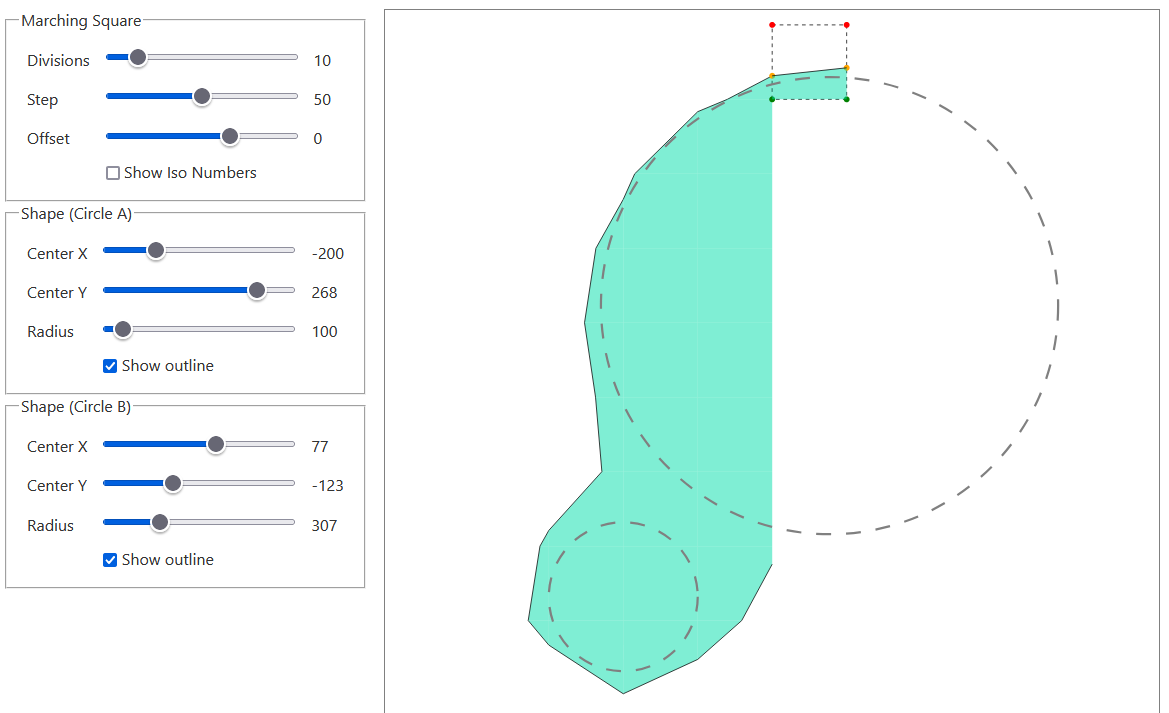
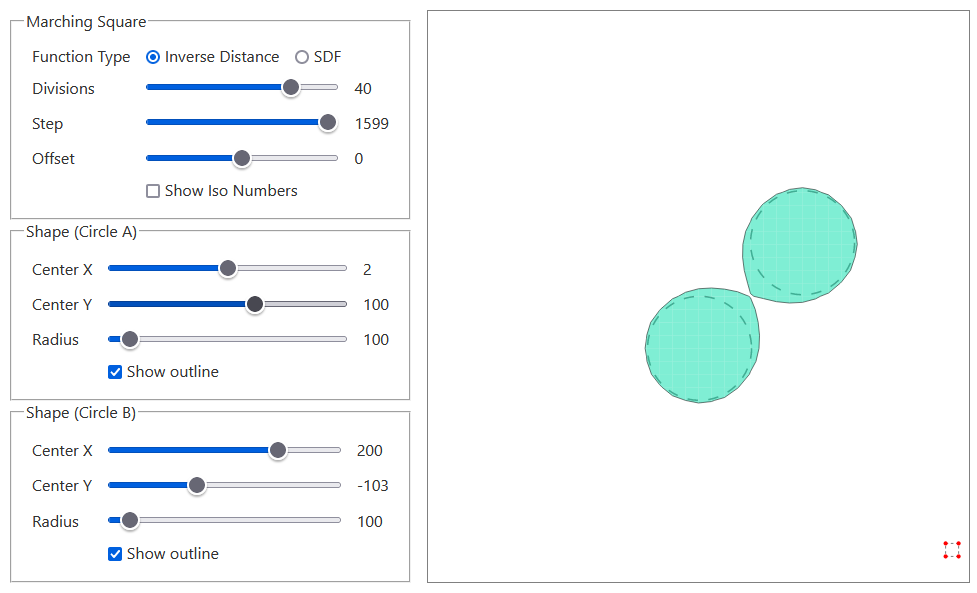
add sdf variant

diff --git a/src/App.svelte b/src/App.svelte
@@ -14,6 +14,8 @@
 	let showOutlineA = true
 	let showOutlineB = true
 
+	let sdf = false
+
 	function setDivisions(val) {
 		const shrink = val < divisions
 		const oldRow = (step % divisions) / divisions
@@ -162,14 +164,55 @@
 			lerped: {north, south, east, west},
 		}
 	}
+
+	function sampleSquareSDF(func, {x,y,width, height}) {
+		const v1 = func(x,y)
+		const v2 = func(x+width,y)
+		const v3 = func(x+width,y+height)
+		const v4 = func(x,y+height)
+		
+		const hit1 = v1 <= 0
+		const hit2 = v2 <= 0
+		const hit3 = v3 <= 0
+		const hit4 = v4 <= 0
+
+		
+		const isoValue = (hit1?1:0) * 8 + (hit2?1:0) * 4 + (hit3?1:0) * 2 + (hit4?1:0) * 1
+		
+
+		const hitCenter = (isoValue === 5 || isoValue === 10) && func(x+width/2,y+height/2) <= 0
+
+		const northLerp = (v1)/(v1-v2) || 0
+		const southLerp = (v4)/(v4-v3) || 0
+		const eastLerp = (v2)/(v2-v3) || 0
+		const westLerp = (v1)/(v1-v4) || 0
+		
+		const north = {y: y, x: lerp(northLerp, x, x+width)}
+		const south = {y: y+height, x: lerp(southLerp, x, x+width)}
+		const east = {y: lerp(eastLerp, y, y+height), x: x+width}
+		const west = {y: lerp(westLerp, y, y+height), x: x}
+		
+		
+		return {
+			shapes: isoShapes(isoValue, hitCenter, north, east, south, west),
+			outlines: isoOutlines(isoValue, hitCenter, north, east, south, west),
+			hits: [hit1, hit2, hit3, hit4],
+			isoValue: isoValue,
+			lerped: {north, south, east, west},
+		}
+	}
 	
 	const translate = (dx,dy, shape) => {
 		return (x,y) => shape(x-dx, y-dy)
 	}
 	
-	const circle = (r) => {
+	const circleClassic = (r) => {
 		const r2 = r*r
 		return (x,y) => r2/((x)*(x)+(y)*(y))
+	}
+	
+	const circleSDF = (r) => {
+		return (x,y) => Math.sqrt((x)*(x)+(y)*(y)) - r
 	}
 	
 	const add = (s1, s2) => {
@@ -190,8 +233,12 @@
 	const addOffset = (o, shape) => {
 		return (x,y) => shape(x,y) + o
 	}
+
+	$: combineShapes = sdf ? min : add
+
+	$: circle = sdf ? circleSDF : circleClassic
 	
-	$: func = addOffset(offset, add(
+	$: func = addOffset((sdf?offset:-offset/100), combineShapes(
 		translate(dx, dy, circle(radius)),
 		translate(dxB, dyB, circle(radiusB))
 	))
@@ -207,7 +254,7 @@
 		active:  i==step,
 	})).map((square) => ({
 		...square,
-		result: sampleSquare(func, square),
+		result: sdf ? sampleSquareSDF(func, square) : sampleSquare(func, square),
 	}))
 	
 	function jumpToStep(evt) {
@@ -220,23 +267,28 @@
 
 <style>
 
+	fieldset {
+		margin:  0;
+	}
+
 	svg {
-		max-width: 80vmin;
-		max-height: 80vmin;
 		display: block;
 		border: 1px solid gray;
 		flex-grow: 1;
+		flex-shrink: 1;
+		flex-basis: 30em;
 	}
 	
 	input {
 		margin: 0;
 		padding: 0.2em 0;
+		flex-grow: 1;
 	}
 	
 	dl {
 		margin: 0;
 		display: grid;
-		grid-template-columns: repeat(3, max-content);
+		grid-template-columns: max-content auto max-content;
 		align-items: center;
 		gap: 0.5em 1em;
 		padding: 0.5em;
@@ -247,39 +299,59 @@
 	}
 	
 	dd {
-		margin: 0
+		margin: 0;
+		display: flex;
 	}
 	
 	h1 {
 		margin: 0;
 	}
 	
+	.intro {
+
+	}
 
 	.container {
+		max-width: 60em;
+		margin: auto;
 		display: flex;
 		flex-wrap: wrap;
 		gap: 1em;
+		padding-bottom: 3em;
+	}
+	.controls {
+		flex-grow: 1;
+		flex-basis: 10em;
+	}
+
+	.check-row {
+		display: flex;
+		gap: 1em;
+		grid-column: span 2;
 	}
 </style>
 
-<h1>
-	Marching Squares
-</h1>
-
-<p>
-	Above you can see how an implicit function describing two circles is converted into a polygon moving a square across the shape and sampling the 4 vertices in each step. Each corner of the square can be either inside or outside of the circles (16 possible cases, labeled by the iso numbers). Each possible case results in a specific edge being created or not.
-</p>
-<p>
-	The Divisions slider controls the size of the square and by this the number of steps and the resulting resolution.
-</p>
-<p>
-The Step slider highlights the square position in a specified step. The squares corners are marked as being inside (green) or outside (red) the target shape. The orange dots show the linear interpolated intersection points of the square&apos;s edges and the target shape.
-</p>
-<p>
-	The target shape consists of two circles. They can be moved and resized via the Shape sliders.
-</p>
 
 <div class="container">
+
+	<div class="intro">
+		<h1>
+			Marching Squares
+		</h1>
+
+		<p>
+			Above you can see how an implicit function describing two circles is converted into a polygon moving a square across the shape and sampling the 4 vertices in each step. Each corner of the square can be either inside or outside of the circles (16 possible cases, labeled by the iso numbers). Each possible case results in a specific edge being created or not.
+		</p>
+		<p>
+			The Divisions slider controls the size of the square and by this the number of steps and the resulting resolution.
+		</p>
+		<p>
+		The Step slider highlights the square position in a specified step. The squares corners are marked as being inside (green) or outside (red) the target shape. The orange dots show the linear interpolated intersection points of the square&apos;s edges and the target shape.
+		</p>
+		<p>
+			The target shape consists of two circles. They can be moved and resized via the Shape sliders.
+		</p>
+	</div>
 
 	<div class="controls">
 		<fieldset>
@@ -288,6 +360,14 @@ The Step slider highlights the square position in a specified step. The squares 
 			</legend>
 			
 			<dl>
+
+				<dt><label for="type">Function Type</label></dt>
+			<dd class="check-row">
+				<label><input type="radio" bind:group={sdf} value={false}> Inverse Distance</label>
+				<label><input type="radio" bind:group={sdf} value={true}> SDF</label>
+		</dd>
+
+
 			<dt><label for="divisions">Divisions</label></dt>
 			<dd><input id="divisions" type="range" min={4} max={50} value={divisions} step="1" on:input={(evt) => setDivisions(evt.currentTarget.valueAsNumber)} />
 		</dd>
@@ -299,12 +379,12 @@ The Step slider highlights the square position in a specified step. The squares 
 			<dd><output>{step}</output></dd>
 				
 			<dt><label for="step">Offset</label></dt>
-			<dd><input id="step" type="range" min={-1} step={0.1} max={0.5} bind:value={offset} />
+			<dd><input id="step" type="range" min={-50} step={1} max={50} bind:value={offset} />
 		</dd>
 			<dd><output>{offset}</output></dd>
 				
 			<dt></dt>
-			<dd style="grid-column: span 2">
+			<dd class="check-row">
 				<label><input type="checkbox" bind:checked={showIso} /> Show Iso Numbers</label>
 			</dd>
 			</dl>
@@ -331,7 +411,7 @@ The Step slider highlights the square position in a specified step. The squares 
 		</dd>
 			<dd><output>{radius}</output></dd>
 			<dt></dt>
-			<dd style="grid-column: span 2">
+			<dd class="check-row">
 				<label><input type="checkbox" bind:checked={showOutlineA} /> Show outline</label>
 			</dd>
 		</dl>
@@ -359,7 +439,7 @@ The Step slider highlights the square position in a specified step. The squares 
 		</dd>
 			<dd><output>{radiusB}</output></dd>
 			<dt></dt>
-			<dd style="grid-column: span 2">
+			<dd class="check-row">
 				<label><input type="checkbox" bind:checked={showOutlineB} /> Show outline</label>
 			</dd>
 		</dl>

diff --git a/public/index.html b/public/index.html
@@ -11,8 +11,25 @@
 	<link rel='stylesheet' href='build/bundle.css'>
 
 	<script defer src='build/bundle.js'></script>
+	
+	<style>
+		footer {
+			text-align: center;
+			margin: 1em 0;
+		}
+	</style>
 </head>
 
 <body>
+	<div id="root">
+		
+	</div>
+
+	<footer>
+		<p>
+			
+		<a href="https://tools.laszlokorte.de/" title="More Educational Tools">more educational tools</a>
+		</p>
+	</footer>
 </body>
 </html>

diff --git a/src/main.js b/src/main.js
@@ -1,7 +1,7 @@
 import App from './App.svelte';
 
 var app = new App({
-	target: document.body
+	target: document.getElementById('root')
 });
 
 export default app;
